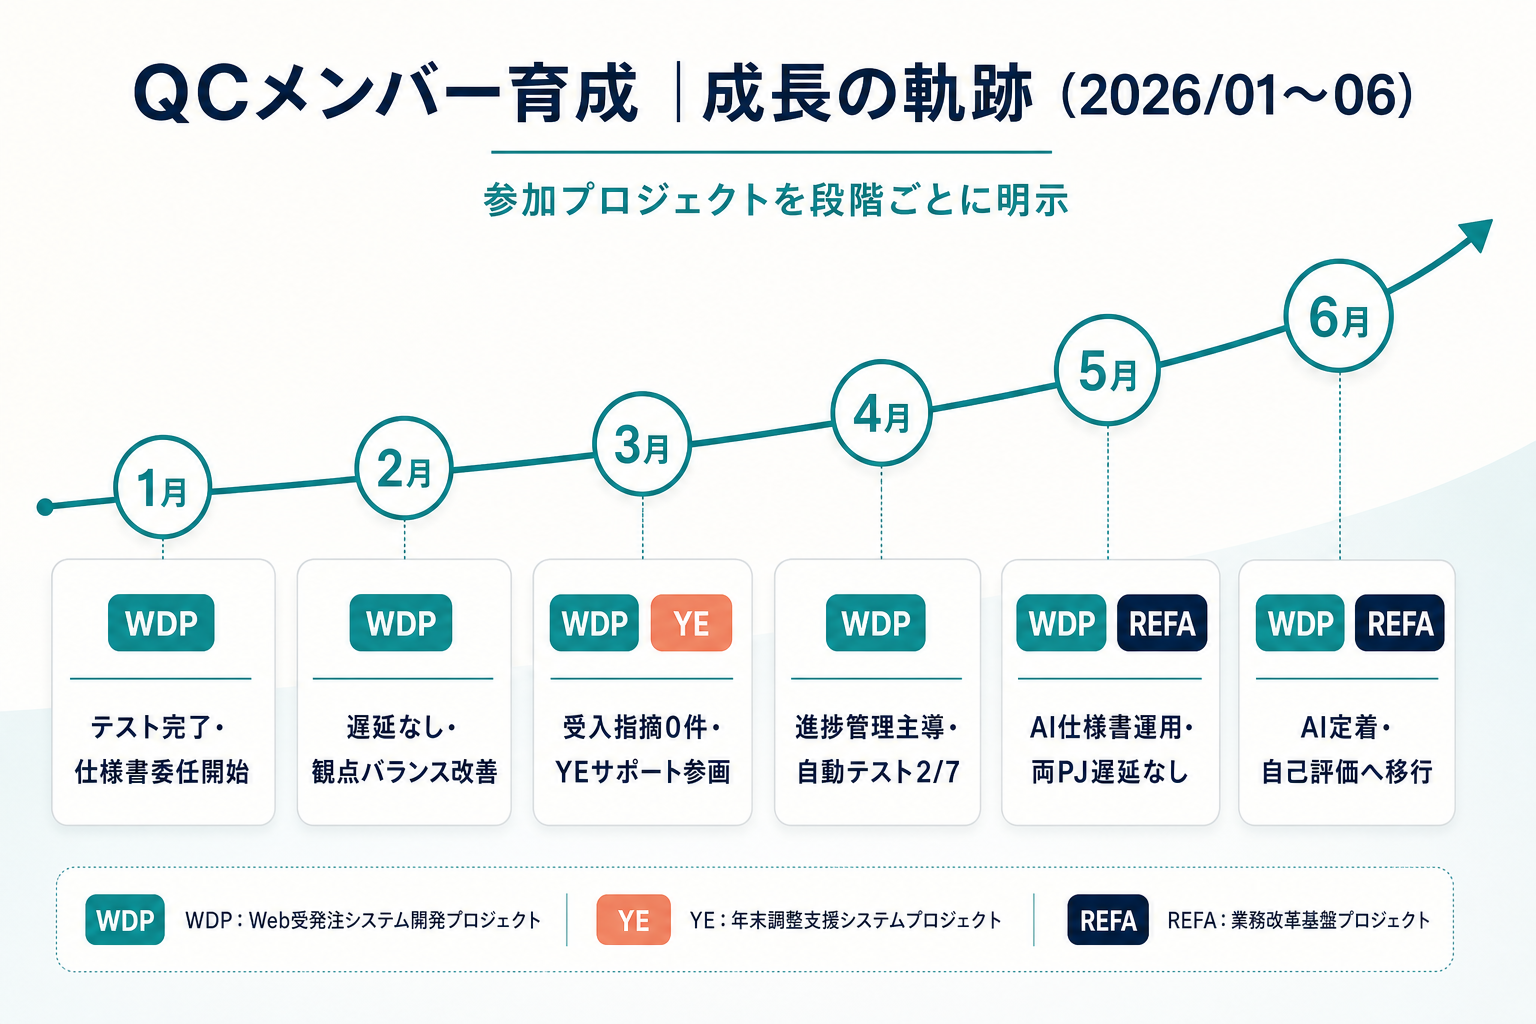
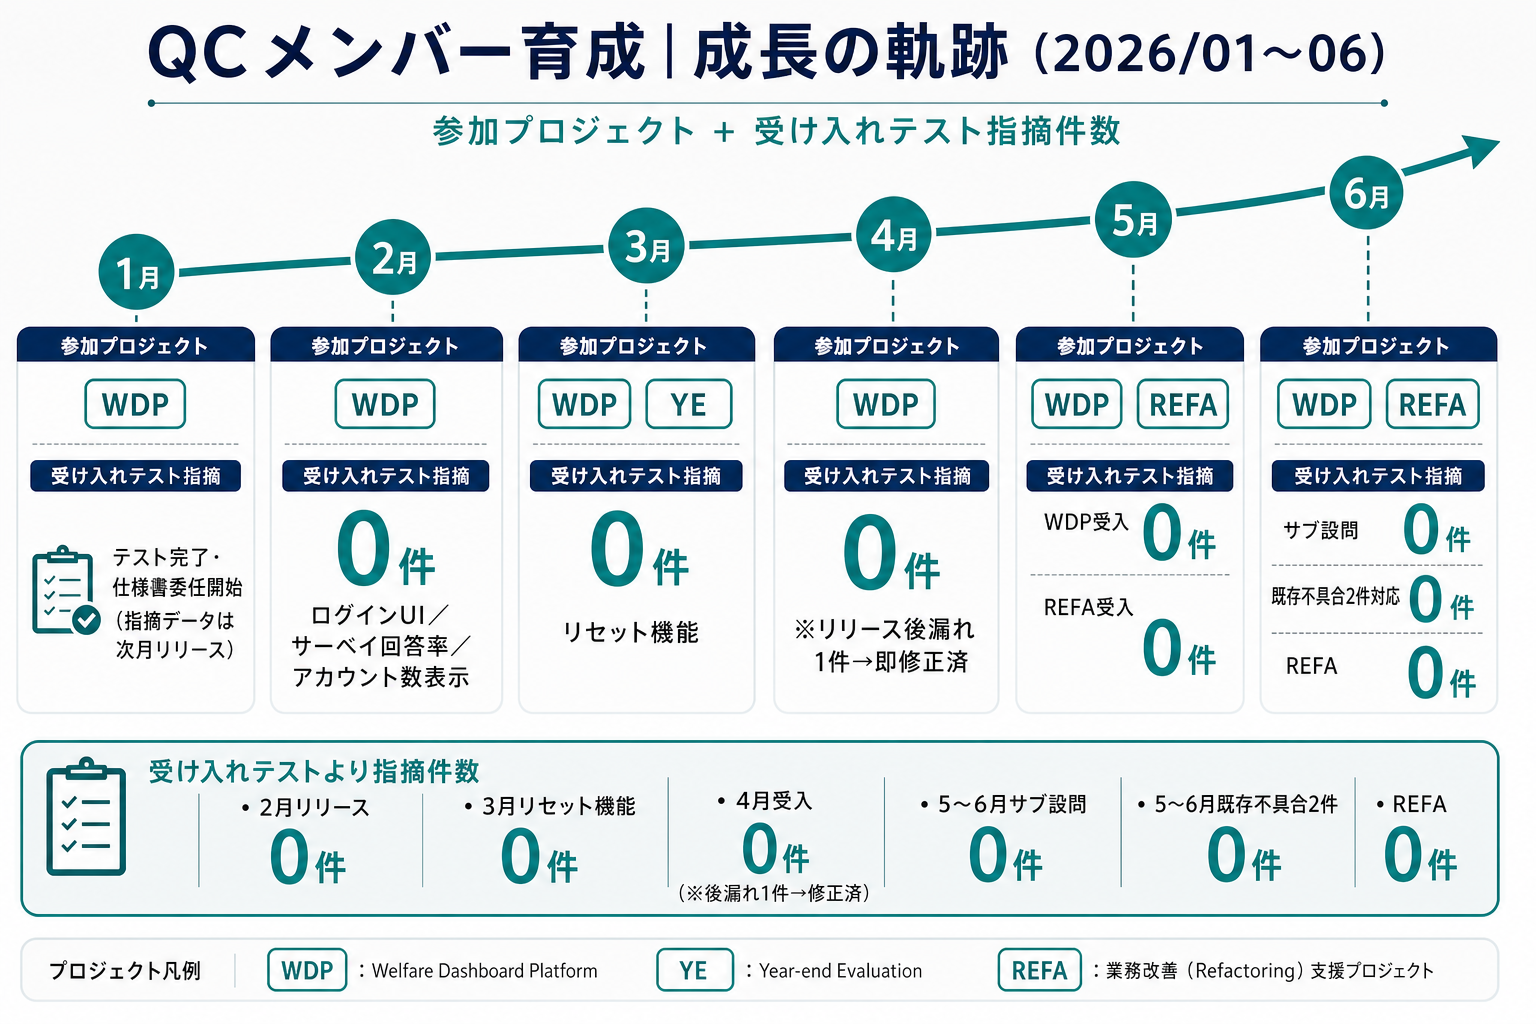
成長チャートに受け入れ指摘件数を追加
各リリースの受け入れテスト指摘件数（WDP/Refaとも0件）を
チャートとレポート本文の両方に反映する。

diff --git a/社員ID_チャウ（AR）｜A2（H1）最終活動報告.md b/社員ID_チャウ（AR）｜A2（H1）最終活動報告.md
@@ -219,9 +219,10 @@
 
 - 2月リリース（ログインUI改善／サーベイ回答率向上／アカウント数表示改修）：0件
 - 3月リリース（リセット機能）：0件
-- 4月（リセット機能・受入）：0件 ※リリース後に漏れ1件（バッチ処理エラー）→修正リリース済
+- 4月（リセット機能・受入時点）：0件 ※リリース後漏れ1件（バッチエラー）→即座に修正リリース対応済
 - 5〜6月リリース（サブ設問設定）：0件
 - 5〜6月リリース（既存不具合2件対応）：0件
+- Refa（受入テスト）：0件
 
 **【利益面の総括・改善アクション】**
 
@@ -256,10 +257,11 @@
 - 4月：保守案件のタスク管理を担当。報告漏れ・検証遅延防止のための管理強化を開始。
 - 5月：商品カスタムのテスト計画・仕様書確認／作成／レビューを強化。スケジュール通り・遅延なし。
 - 6月：
-  - 受入テストを実施。要望・指摘への対応をほぼ完了し先方へ報告済み（6/19時点）。報告書上、指摘件数の明示数値は未記載のため、件数は「要望・指摘対応完了」として品質管理を実施。
+  - 受入テストを実施。要望・指摘への対応をほぼ完了し先方へ報告済み（6/19時点）
+  - 受け入れテストより指摘件数：0件
   - モンキーテスト、返却チケット確認、リリース用検証パターン作成、納品用ドキュメント作成を推進
   - リリース作業は7月に延期 → 延期期間中に事前準備タスクを継続対応
-- → 利益目標の数値達成は未確定だが、品質面では受入テスト対応を完了させ、リリース遅延なく準備を進めている状態。
+- → 利益目標の数値達成は未確定だが、品質面では受け入れ指摘0件を維持し、リリース準備を遅延なく進めている状態。
 
 ### 目標とのギャップとその要因
 
